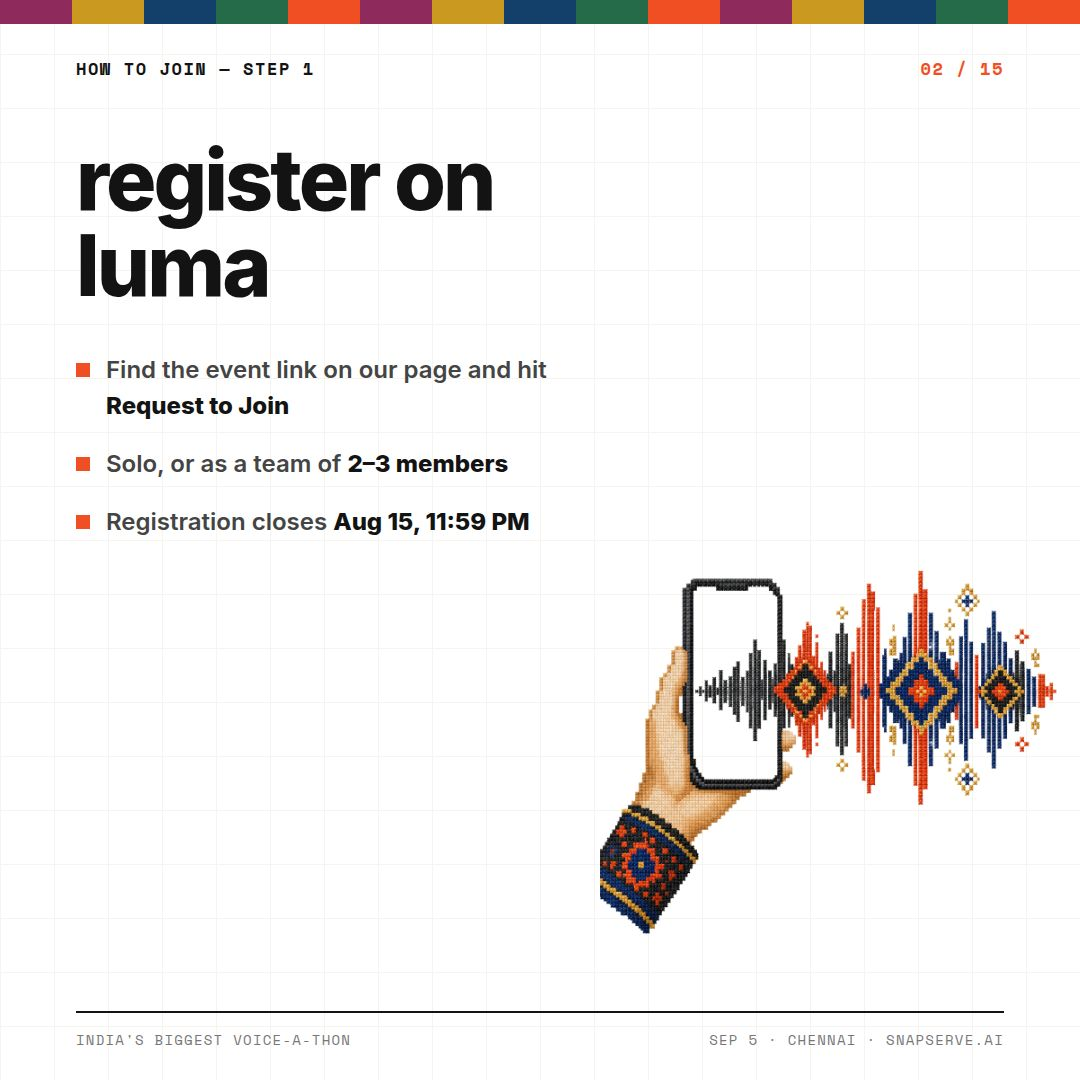
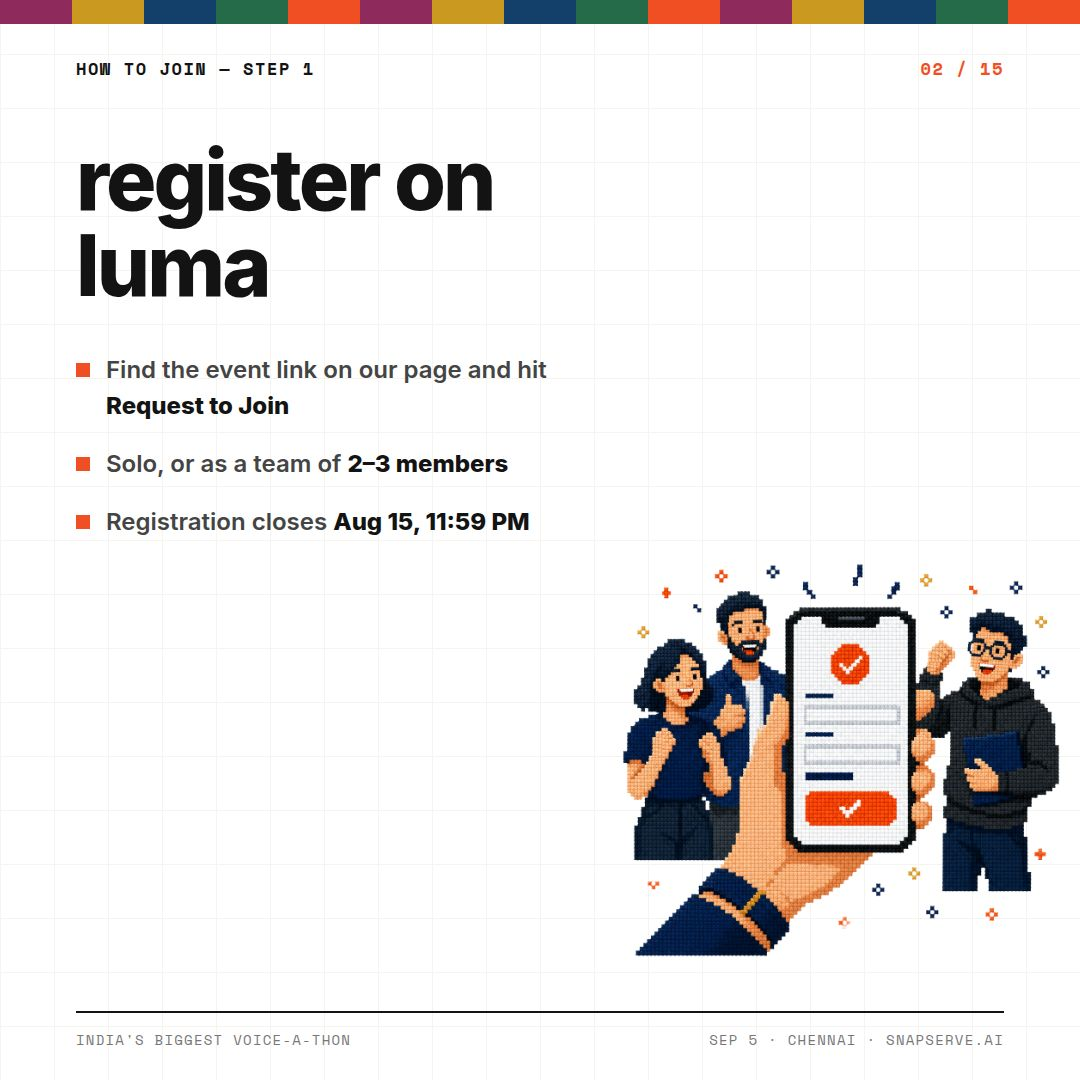
Update snapserve book poster assets and metadata.
Replit-Commit-Author: Agent

Changed region(s): [[0.55, 0.5194, 1.0, 0.8861]]

diff --git a/artifacts/snapserve-book/public/poster/c12.html b/artifacts/snapserve-book/public/poster/c12.html
@@ -18,7 +18,7 @@ body{font-family:'Inter',sans-serif;background:#fff;color:#131313;position:relat
 .li b{color:#131313}
 .dot{flex:none;width:14px;height:14px;background:#F04E23;margin-top:11px}
 .cta{display:inline-block;background:#1B2A5E;color:#fff;font-weight:800;font-size:18px;letter-spacing:.14em;padding:17px 46px;margin-top:40px}
-.art{position:absolute;right:20px;bottom:110px;width:440px;height:460px;background:url(art/pixel-builder-testcall-2.png) right bottom/contain no-repeat}
+.art{position:absolute;right:20px;bottom:110px;width:450px;height:440px;background:url(art/px-c12-memory.png) right bottom/contain no-repeat}
 .run{position:absolute;left:76px;right:76px;bottom:30px;display:flex;justify-content:space-between;border-top:2px solid #131313;padding-top:16px;font-family:'Space Mono',monospace;font-size:14px;letter-spacing:.09em;color:#777}
 .logos{position:absolute;left:76px;right:76px;bottom:26px;display:flex;justify-content:space-between;align-items:center;border-top:2px solid #131313;padding-top:16px}
 .lg{display:flex;align-items:center;gap:10px}

diff --git a/artifacts/snapserve-book/public/poster/c4.html b/artifacts/snapserve-book/public/poster/c4.html
@@ -18,7 +18,7 @@ body{font-family:'Inter',sans-serif;background:#fff;color:#131313;position:relat
 .li b{color:#131313}
 .dot{flex:none;width:14px;height:14px;background:#F04E23;margin-top:11px}
 .cta{display:inline-block;background:#1B2A5E;color:#fff;font-weight:800;font-size:18px;letter-spacing:.14em;padding:17px 46px;margin-top:40px}
-.art{position:absolute;right:20px;bottom:110px;width:460px;height:480px;background:url(art/pixel-builder-testcall-2.png) right bottom/contain no-repeat}
+.art{position:absolute;right:20px;bottom:110px;width:440px;height:460px;background:url(art/px-c4-deploy.png) right bottom/contain no-repeat}
 .run{position:absolute;left:76px;right:76px;bottom:30px;display:flex;justify-content:space-between;border-top:2px solid #131313;padding-top:16px;font-family:'Space Mono',monospace;font-size:14px;letter-spacing:.09em;color:#777}
 .logos{position:absolute;left:76px;right:76px;bottom:26px;display:flex;justify-content:space-between;align-items:center;border-top:2px solid #131313;padding-top:16px}
 .lg{display:flex;align-items:center;gap:10px}

diff --git a/artifacts/snapserve-book/public/poster/c13.html b/artifacts/snapserve-book/public/poster/c13.html
@@ -18,7 +18,7 @@ body{font-family:'Inter',sans-serif;background:#fff;color:#131313;position:relat
 .li b{color:#131313}
 .dot{flex:none;width:14px;height:14px;background:#F04E23;margin-top:11px}
 .cta{display:inline-block;background:#1B2A5E;color:#fff;font-weight:800;font-size:18px;letter-spacing:.14em;padding:17px 46px;margin-top:40px}
-.art{position:absolute;right:20px;bottom:110px;width:460px;height:440px;background:url(art/pixel-automation-flow.png) right bottom/contain no-repeat}
+.art{position:absolute;right:20px;bottom:110px;width:470px;height:430px;background:url(art/px-c13-squad.png) right bottom/contain no-repeat}
 .run{position:absolute;left:76px;right:76px;bottom:30px;display:flex;justify-content:space-between;border-top:2px solid #131313;padding-top:16px;font-family:'Space Mono',monospace;font-size:14px;letter-spacing:.09em;color:#777}
 .logos{position:absolute;left:76px;right:76px;bottom:26px;display:flex;justify-content:space-between;align-items:center;border-top:2px solid #131313;padding-top:16px}
 .lg{display:flex;align-items:center;gap:10px}

diff --git a/artifacts/snapserve-book/public/poster/c10.html b/artifacts/snapserve-book/public/poster/c10.html
@@ -18,7 +18,7 @@ body{font-family:'Inter',sans-serif;background:#fff;color:#131313;position:relat
 .li b{color:#131313}
 .dot{flex:none;width:14px;height:14px;background:#F04E23;margin-top:11px}
 .cta{display:inline-block;background:#1B2A5E;color:#fff;font-weight:800;font-size:18px;letter-spacing:.14em;padding:17px 46px;margin-top:40px}
-.art{position:absolute;right:20px;bottom:110px;width:460px;height:440px;background:url(art/pixel-automation-flow.png) right bottom/contain no-repeat}
+.art{position:absolute;right:20px;bottom:110px;width:450px;height:440px;background:url(art/px-c10-flow.png) right bottom/contain no-repeat}
 .run{position:absolute;left:76px;right:76px;bottom:30px;display:flex;justify-content:space-between;border-top:2px solid #131313;padding-top:16px;font-family:'Space Mono',monospace;font-size:14px;letter-spacing:.09em;color:#777}
 .logos{position:absolute;left:76px;right:76px;bottom:26px;display:flex;justify-content:space-between;align-items:center;border-top:2px solid #131313;padding-top:16px}
 .lg{display:flex;align-items:center;gap:10px}

diff --git a/artifacts/snapserve-book/public/poster/c3.html b/artifacts/snapserve-book/public/poster/c3.html
@@ -18,7 +18,7 @@ body{font-family:'Inter',sans-serif;background:#fff;color:#131313;position:relat
 .li b{color:#131313}
 .dot{flex:none;width:14px;height:14px;background:#F04E23;margin-top:11px}
 .cta{display:inline-block;background:#1B2A5E;color:#fff;font-weight:800;font-size:18px;letter-spacing:.14em;padding:17px 46px;margin-top:40px}
-.art{position:absolute;right:20px;bottom:110px;width:460px;height:480px;background:url(art/pixel-coder-night-2.png) right bottom/contain no-repeat}
+.art{position:absolute;right:20px;bottom:110px;width:470px;height:470px;background:url(art/px-c3-signup.png) right bottom/contain no-repeat}
 .run{position:absolute;left:76px;right:76px;bottom:30px;display:flex;justify-content:space-between;border-top:2px solid #131313;padding-top:16px;font-family:'Space Mono',monospace;font-size:14px;letter-spacing:.09em;color:#777}
 .logos{position:absolute;left:76px;right:76px;bottom:26px;display:flex;justify-content:space-between;align-items:center;border-top:2px solid #131313;padding-top:16px}
 .lg{display:flex;align-items:center;gap:10px}

diff --git a/artifacts/snapserve-book/public/poster/c5.html b/artifacts/snapserve-book/public/poster/c5.html
@@ -18,7 +18,7 @@ body{font-family:'Inter',sans-serif;background:#fff;color:#131313;position:relat
 .li b{color:#131313}
 .dot{flex:none;width:14px;height:14px;background:#F04E23;margin-top:11px}
 .cta{display:inline-block;background:#1B2A5E;color:#fff;font-weight:800;font-size:18px;letter-spacing:.14em;padding:17px 46px;margin-top:40px}
-.art{position:absolute;right:20px;bottom:110px;width:460px;height:480px;background:url(art/pixel-demo-judges-2.png) right bottom/contain no-repeat}
+.art{position:absolute;right:20px;bottom:110px;width:520px;height:480px;background:url(art/px-c5-judges.png) right bottom/contain no-repeat}
 .run{position:absolute;left:76px;right:76px;bottom:30px;display:flex;justify-content:space-between;border-top:2px solid #131313;padding-top:16px;font-family:'Space Mono',monospace;font-size:14px;letter-spacing:.09em;color:#777}
 .logos{position:absolute;left:76px;right:76px;bottom:26px;display:flex;justify-content:space-between;align-items:center;border-top:2px solid #131313;padding-top:16px}
 .lg{display:flex;align-items:center;gap:10px}

diff --git a/artifacts/snapserve-book/public/poster/c15.html b/artifacts/snapserve-book/public/poster/c15.html
@@ -18,7 +18,7 @@ body{font-family:'Inter',sans-serif;background:#fff;color:#131313;position:relat
 .li b{color:#131313}
 .dot{flex:none;width:14px;height:14px;background:#F04E23;margin-top:11px}
 .cta{display:inline-block;background:#1B2A5E;color:#fff;font-weight:800;font-size:18px;letter-spacing:.14em;padding:17px 46px;margin-top:40px}
-.art{position:absolute;right:20px;bottom:110px;width:440px;height:400px;background:url(art/pixel-stage-finale.png) right bottom/contain no-repeat}
+.art{position:absolute;right:20px;bottom:110px;width:460px;height:400px;background:url(art/px-c15-cheer.png) right bottom/contain no-repeat}
 .run{position:absolute;left:76px;right:76px;bottom:30px;display:flex;justify-content:space-between;border-top:2px solid #131313;padding-top:16px;font-family:'Space Mono',monospace;font-size:14px;letter-spacing:.09em;color:#777}
 .logos{position:absolute;left:76px;right:76px;bottom:26px;display:flex;justify-content:space-between;align-items:center;border-top:2px solid #131313;padding-top:16px}
 .lg{display:flex;align-items:center;gap:10px}

diff --git a/artifacts/snapserve-book/public/poster/c2.html b/artifacts/snapserve-book/public/poster/c2.html
@@ -18,7 +18,7 @@ body{font-family:'Inter',sans-serif;background:#fff;color:#131313;position:relat
 .li b{color:#131313}
 .dot{flex:none;width:14px;height:14px;background:#F04E23;margin-top:11px}
 .cta{display:inline-block;background:#1B2A5E;color:#fff;font-weight:800;font-size:18px;letter-spacing:.14em;padding:17px 46px;margin-top:40px}
-.art{position:absolute;right:20px;bottom:110px;width:460px;height:480px;background:url(art/pixel-phone-wave.png) right bottom/contain no-repeat}
+.art{position:absolute;right:20px;bottom:110px;width:440px;height:480px;background:url(art/px-c2-register.png) right bottom/contain no-repeat}
 .run{position:absolute;left:76px;right:76px;bottom:30px;display:flex;justify-content:space-between;border-top:2px solid #131313;padding-top:16px;font-family:'Space Mono',monospace;font-size:14px;letter-spacing:.09em;color:#777}
 .logos{position:absolute;left:76px;right:76px;bottom:26px;display:flex;justify-content:space-between;align-items:center;border-top:2px solid #131313;padding-top:16px}
 .lg{display:flex;align-items:center;gap:10px}

diff --git a/artifacts/snapserve-book/public/poster/c6.html b/artifacts/snapserve-book/public/poster/c6.html
@@ -18,7 +18,7 @@ body{font-family:'Inter',sans-serif;background:#fff;color:#131313;position:relat
 .li b{color:#131313}
 .dot{flex:none;width:14px;height:14px;background:#F04E23;margin-top:11px}
 .cta{display:inline-block;background:#1B2A5E;color:#fff;font-weight:800;font-size:18px;letter-spacing:.14em;padding:17px 46px;margin-top:40px}
-.art{position:absolute;right:20px;bottom:110px;width:500px;height:500px;background:url(art/pixel-stage-finale.png) right bottom/contain no-repeat}
+.art{position:absolute;right:20px;bottom:110px;width:500px;height:480px;background:url(art/px-c6-finale.png) right bottom/contain no-repeat}
 .run{position:absolute;left:76px;right:76px;bottom:30px;display:flex;justify-content:space-between;border-top:2px solid #131313;padding-top:16px;font-family:'Space Mono',monospace;font-size:14px;letter-spacing:.09em;color:#777}
 .logos{position:absolute;left:76px;right:76px;bottom:26px;display:flex;justify-content:space-between;align-items:center;border-top:2px solid #131313;padding-top:16px}
 .lg{display:flex;align-items:center;gap:10px}

diff --git a/artifacts/snapserve-book/public/poster/c7.html b/artifacts/snapserve-book/public/poster/c7.html
@@ -18,7 +18,7 @@ body{font-family:'Inter',sans-serif;background:#fff;color:#131313;position:relat
 .li b{color:#131313}
 .dot{flex:none;width:14px;height:14px;background:#F04E23;margin-top:11px}
 .cta{display:inline-block;background:#1B2A5E;color:#fff;font-weight:800;font-size:18px;letter-spacing:.14em;padding:17px 46px;margin-top:40px}
-.art{position:absolute;right:20px;bottom:110px;width:440px;height:480px;background:url(art/pixel-trophy-prize.png) right bottom/contain no-repeat}
+.art{position:absolute;right:20px;bottom:110px;width:430px;height:470px;background:url(art/px-c7-trophy.png) right bottom/contain no-repeat}
 .run{position:absolute;left:76px;right:76px;bottom:30px;display:flex;justify-content:space-between;border-top:2px solid #131313;padding-top:16px;font-family:'Space Mono',monospace;font-size:14px;letter-spacing:.09em;color:#777}
 .logos{position:absolute;left:76px;right:76px;bottom:26px;display:flex;justify-content:space-between;align-items:center;border-top:2px solid #131313;padding-top:16px}
 .lg{display:flex;align-items:center;gap:10px}

diff --git a/artifacts/snapserve-book/public/poster/c9.html b/artifacts/snapserve-book/public/poster/c9.html
@@ -18,7 +18,7 @@ body{font-family:'Inter',sans-serif;background:#fff;color:#131313;position:relat
 .li b{color:#131313}
 .dot{flex:none;width:14px;height:14px;background:#F04E23;margin-top:11px}
 .cta{display:inline-block;background:#1B2A5E;color:#fff;font-weight:800;font-size:18px;letter-spacing:.14em;padding:17px 46px;margin-top:40px}
-.art{position:absolute;right:20px;bottom:110px;width:440px;height:460px;background:url(art/pixel-phone-wave.png) right bottom/contain no-repeat}
+.art{position:absolute;right:20px;bottom:110px;width:440px;height:430px;background:url(art/px-c9-language.png) right bottom/contain no-repeat}
 .run{position:absolute;left:76px;right:76px;bottom:30px;display:flex;justify-content:space-between;border-top:2px solid #131313;padding-top:16px;font-family:'Space Mono',monospace;font-size:14px;letter-spacing:.09em;color:#777}
 .logos{position:absolute;left:76px;right:76px;bottom:26px;display:flex;justify-content:space-between;align-items:center;border-top:2px solid #131313;padding-top:16px}
 .lg{display:flex;align-items:center;gap:10px}

diff --git a/artifacts/snapserve-book/public/poster/c11.html b/artifacts/snapserve-book/public/poster/c11.html
@@ -18,7 +18,7 @@ body{font-family:'Inter',sans-serif;background:#fff;color:#131313;position:relat
 .li b{color:#131313}
 .dot{flex:none;width:14px;height:14px;background:#F04E23;margin-top:11px}
 .cta{display:inline-block;background:#1B2A5E;color:#fff;font-weight:800;font-size:18px;letter-spacing:.14em;padding:17px 46px;margin-top:40px}
-.art{position:absolute;right:20px;bottom:110px;width:440px;height:460px;background:url(art/pixel-phone-wave.png) right bottom/contain no-repeat}
+.art{position:absolute;right:20px;bottom:110px;width:450px;height:460px;background:url(art/px-c11-stack.png) right bottom/contain no-repeat}
 .run{position:absolute;left:76px;right:76px;bottom:30px;display:flex;justify-content:space-between;border-top:2px solid #131313;padding-top:16px;font-family:'Space Mono',monospace;font-size:14px;letter-spacing:.09em;color:#777}
 .logos{position:absolute;left:76px;right:76px;bottom:26px;display:flex;justify-content:space-between;align-items:center;border-top:2px solid #131313;padding-top:16px}
 .lg{display:flex;align-items:center;gap:10px}
